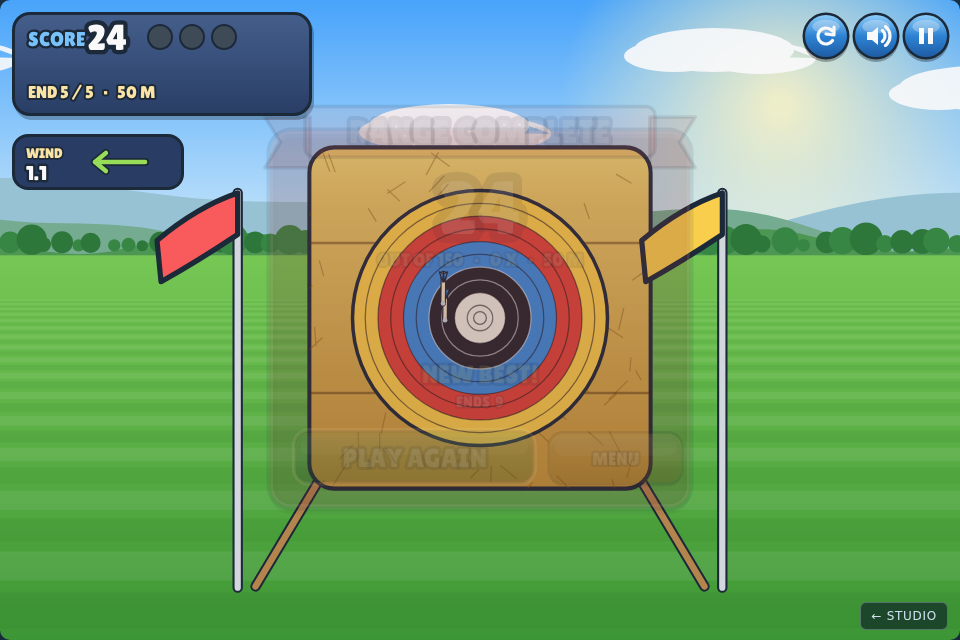
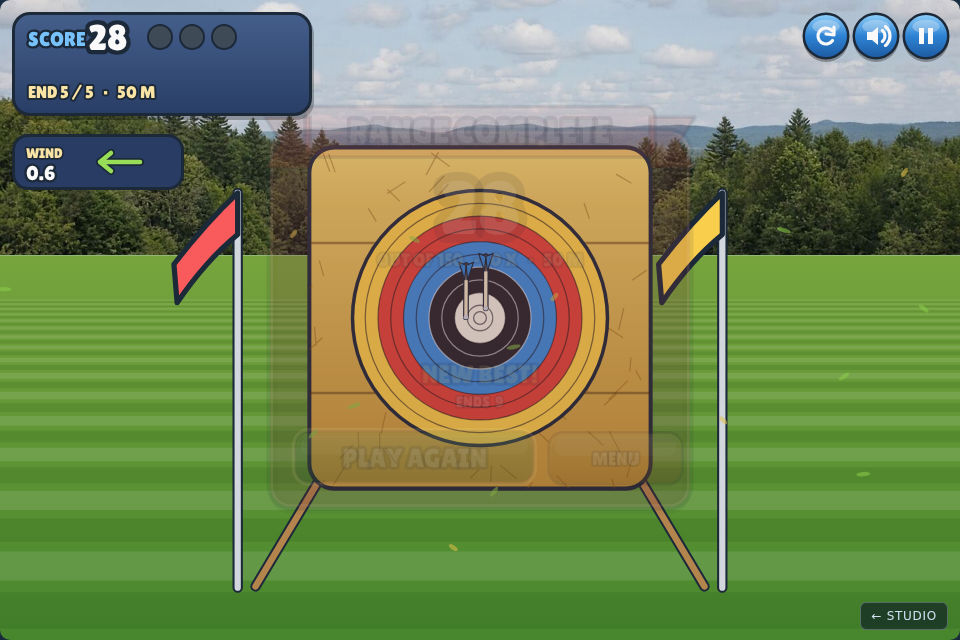
Archery: bigger stuck arrows, gold-hit sparkles, wind-blown leaves, photo preload (merges photo backdrops branch)
Claude-Session: https://claude.ai/code/session_01BtY1KJ7tjpgVM7GgiLFZi2

diff --git a/games/kudbee-archery/src/render.js b/games/kudbee-archery/src/render.js
@@ -129,6 +129,19 @@ KAR.Render = {
   },
 
   // ---- the target ----------------------------------------------------------------
+  // drifting leaves: the stronger the wind, the faster and flatter they fly
+  drawWind(ctx, t, wind) {
+    const W = this.W, H = this.H, a = Math.min(1, Math.abs(wind) / 4), dir = Math.sign(wind) || 1;
+    ctx.save();
+    for (let i = 0; i < 16; i++) {
+      const sp = 40 + a * 260 + (i % 4) * 14, ph = (i * 137.5) % W;
+      let x = ((ph + dir * t * sp) % (W + 80) + (W + 80)) % (W + 80) - 40;
+      const y = H * (0.3 + 0.55 * ((i * 53) % 100) / 100) + Math.sin(t * 1.7 + i) * (10 + 14 * (1 - a));
+      ctx.globalAlpha = 0.5 + 0.35 * a; ctx.fillStyle = i % 3 ? '#8fd24a' : '#e6c54a';
+      ctx.save(); ctx.translate(x, y); ctx.rotate(Math.sin(t * 3 + i) * 0.9 + dir * a * 0.6); ctx.beginPath(); ctx.ellipse(0, 0, 5 + (i % 3), 2.2, 0, 0, 7); ctx.fill(); ctx.restore();
+    }
+    ctx.restore();
+  },
   drawTarget(ctx, t, wind) {
     const C = KAR.CFG, D = this.dist, F = this.faceD, R = F / 2, Y = C.FACE_Y;
     const ctr = this.proj(0, Y, D); if (!ctr) return;
@@ -196,7 +209,7 @@ KAR.Render = {
   stuck(ctx, a, team) {
     if (!a.hit) return;
     const D = this.dist, h = a.hit, L = Math.hypot(h.vx, h.vy, h.vz) || 1;
-    this.arrow(ctx, { x: h.x, y: h.y, z: D }, { x: h.vx / L, y: h.vy / L * 3.5, z: h.vz / L }, 0.5, team, 30 * Math.min(1, 0.4 + this.zoom));
+    this.arrow(ctx, { x: h.x, y: h.y, z: D }, { x: h.vx / L, y: h.vy / L * 3.5, z: h.vz / L }, 0.9, team, 52 * Math.min(1, 0.4 + this.zoom));
   },
 
   // ---- first-person bow + sight ----------------------------------------------------------
@@ -230,3 +243,4 @@ KAR.Render = {
     ctx.restore();
   },
 };
+if (typeof Image !== 'undefined') ['bg-menu', 'bg-range-1', 'bg-range-2'].forEach(n => KAR.Render._photo(n));

diff --git a/games/kudbee-archery/src/game.js b/games/kudbee-archery/src/game.js
@@ -161,6 +161,7 @@ KAR.Game = class {
     f.done = true;
     const e = res.hit;
     if (e) this.pops.push({ x: e.x, y: e.y, age: 0, ring: res.ring, team: f.shooter });
+    if (e && res.ring >= 9) { const q = KAR.Render.proj(e.x, e.y, m.dist); if (q) for (let i = 0; i < (res.x ? 26 : 14); i++) { const a = this.rng() * 6.283, sp = 80 + this.rng() * 220; this.particles.push({ x: q.x, y: q.y, vx: Math.cos(a) * sp, vy: Math.sin(a) * sp - 40, g: 320, rot: this.rng() * 6, vr: (this.rng() - 0.5) * 12, life: 0.7 + this.rng() * 0.6, col: ['#fff6a8', '#ffd34d', '#ffffff'][i % 3] }); } }
     this.shake = Math.max(this.shake, res.ring >= 9 ? 6 : 3);
     if (res.miss) { this.audio.miss(); this._banner(res.short ? 'SHORT!' : 'MISS', '#ffffff', '#9aa3ad', res.short ? 'fell before the butt' : 'off the face', 70); }
     else {
@@ -278,7 +279,7 @@ KAR.Game = class {
       R.drawTarget(ctx, this.time, m.wind);
       this._drawArrows(ctx);
     }
-    if (this.screen !== 'menu') this._drawAim(ctx);
+    if (this.screen !== 'menu') { R.drawWind(ctx, this.time, m.wind); this._drawAim(ctx); }
     ctx.restore();
     U.begin();
     for (const p of this.particles) { ctx.save(); ctx.translate(p.x, p.y); ctx.rotate(p.rot); ctx.fillStyle = p.col; ctx.fillRect(-4, -2.5, 8, 5); ctx.restore(); }
